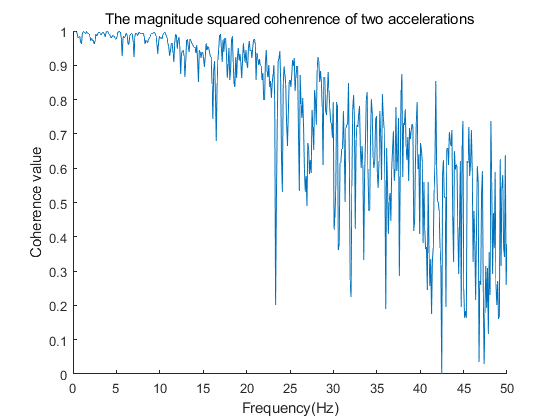
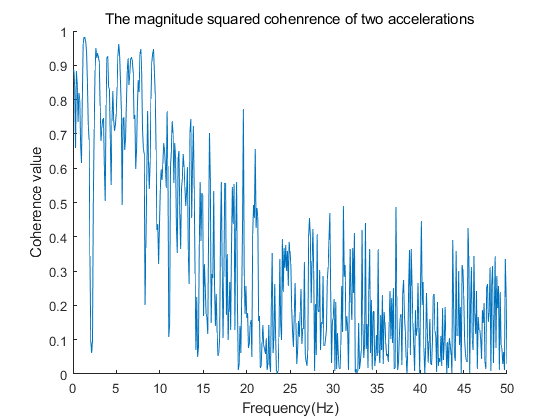
20230503

Changed region(s): [[0.1214, 0.0619, 0.9107, 0.8976]]

diff --git a/100Hz/Rotation/README.md b/100Hz/Rotation/README.md
@@ -40,4 +40,4 @@
 </div>
 
 **Final coherence**
-**The final coherence of this experiment is 0.8581, exceeding the threshold of 0.55. Our attack works.**
+**The final coherence of this experiment is 0.7629, exceeding the threshold of 0.55. Our attack works.**
